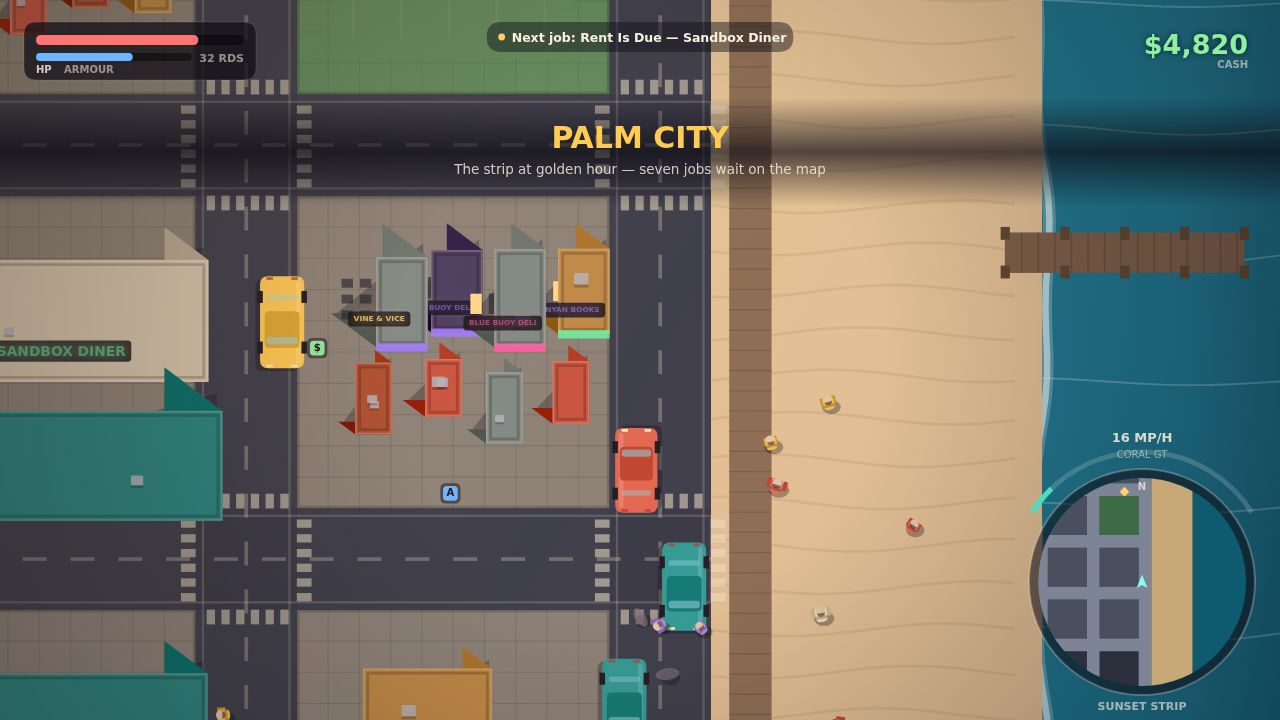
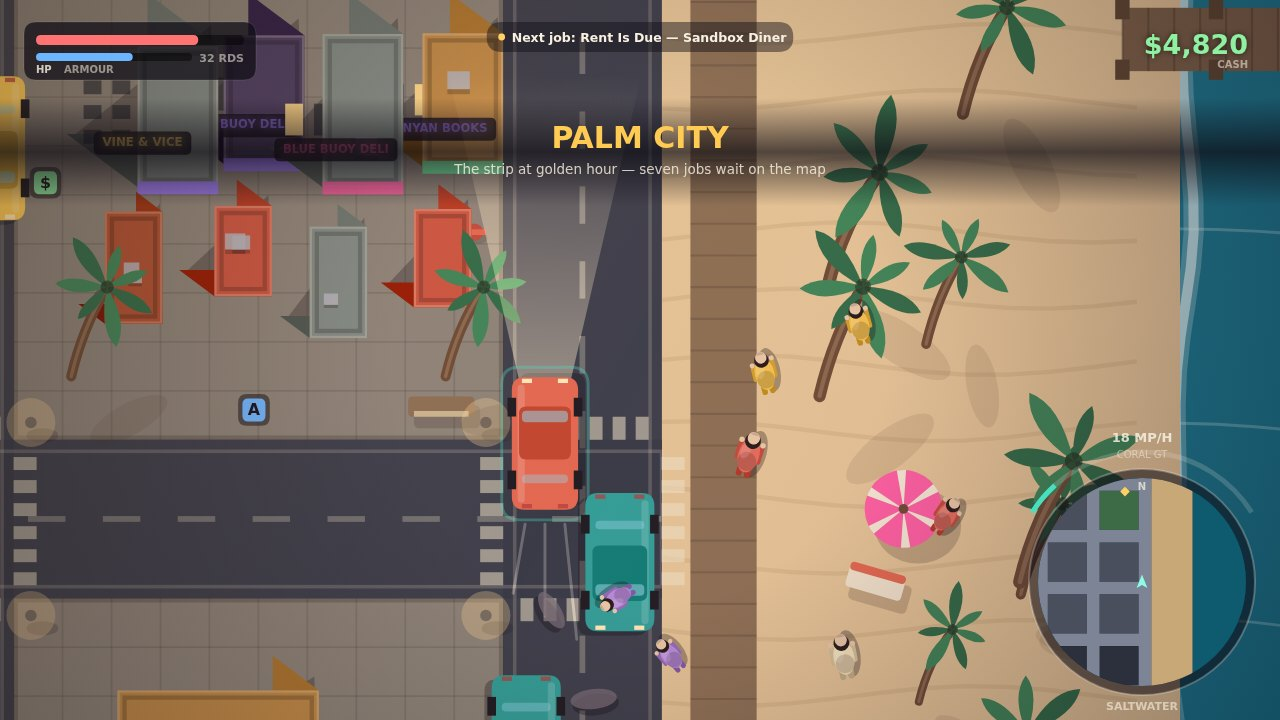
On-foot shot staged at the downtown crossing; drop probe pages; refresh the four screenshots

diff --git a/game/src/shots.js b/game/src/shots.js
@@ -94,54 +94,47 @@
   // 2 — ON FOOT. Mid-pavement in a shop block, pedestrians all round, the job marker ahead.
   SCENES[2] = function (world) {
     clearTraffic(world);
-    // On foot on the sand behind the boardwalk: umbrellas, loungers, palms, a crowd
-    // walking the strip, and the avenue's tail lights just behind him.
-    var wx = CFG.SAND_X + 118;
-    var wy = 1996;
-
-    var grove = [
-      [-46, -212, 1.22], [116, -150, 1.05], [148, 196, 1.30], [-58, 158, 1.10],
-      [276, 30, 1.00], [246, -262, 1.14]
-    ];
-    for (var g = 0; g < grove.length; g++) {
-      world.city.palms.push({ x: wx + grove[g][0], y: wy + grove[g][1], s: grove[g][2], rot: g * 1.1 });
-    }
-    world.city.props.push({ type: 'umbrella', x: wx + 168, y: wy - 116, rot: 0.35, color: CFG.colors.neon[0] });
-    world.city.props.push({ type: 'umbrella', x: wx + 96, y: wy + 176, rot: -0.42, color: CFG.colors.neon[1] });
-    world.city.props.push({ type: 'lounger', x: wx + 132, y: wy - 78, rot: 0.30 });
-    world.city.props.push({ type: 'lounger', x: wx + 62, y: wy + 138, rot: -0.34 });
+    // On foot in the middle of a downtown crossing: he is walking east across the paint, a
+    // queue of cars waits at the light, the crowd crosses with him, towers lean overhead.
+    var ix = CFG.CELL * 4 + CFG.ROAD / 2;   // the crossroads centre line, both ways
+    var wx = ix - 34;
+    var wy = ix + 26;
 
     world.player.inCar = null;
     world.player.x = wx;
     world.player.y = wy;
-    world.player.angle = -2.30;
-    world.player.vx = -56;
-    world.player.vy = -14;
-    world.player.stride = 3.0;
-    world.player.health = 82;
-    world.player.armour = 48;
+    world.player.angle = 0.02;
+    world.player.vx = 62;
+    world.player.vy = 6;
+    world.player.stride = 3.2;
+    world.player.health = 78;
+    world.player.armour = 44;
     world.aiming = false;
 
     var mates = [
-      [wx + 92, wy - 84, 2.6], [wx - 96, wy + 96, 2.1], [wx + 132, wy + 52, 2.5],
-      [wx - 34, wy - 152, 1.9], [wx + 58, wy + 172, 2.4], [wx + 186, wy - 224, 1.7]
+      [wx + 96, wy + 22, 0.1], [wx - 74, wy - 26, 3.1], [wx + 168, wy - 8, 2.9],
+      [wx + 42, wy - 96, 1.6], [ix - 150, ix + 128, -0.4], [ix + 132, ix + 116, 2.6]
     ];
     for (var m = 0; m < mates.length; m++) {
       var ped = world.peds.spawnAt(mates[m][0], mates[m][1]);
       if (ped) ped.angle = mates[m][2];
     }
-    propCar(world, AVENUE - 26, wy - 208, -Math.PI / 2, 0);
-    propCar(world, AVENUE - 26, wy + 148, -Math.PI / 2, 6);
-    propCar(world, AVENUE + 30, wy + 18, Math.PI / 2, 3);
+    // traffic held at the light: two lanes coming north, two going south
+    propCar(world, ix - 26, ix + 200, -Math.PI / 2, 2);
+    propCar(world, ix + 26, ix + 268, Math.PI / 2, 5);
+    propCar(world, ix - 26, ix - 172, -Math.PI / 2, 1);
+    propCar(world, ix + 26, ix - 236, Math.PI / 2, 6);
+    propCar(world, ix + 210, ix - 26, Math.PI, 3);
+    propCar(world, ix - 208, ix + 26, 0, 0);
     world.police.stars = 0;
     world.police.units.length = 0;
-    world.shotCam = { x: wx + 62, y: wy - 44, zoom: 2.86 };
-    world.camera.zoom = 2.86;
-    world.camera.x = wx + 62;
-    world.camera.y = wy - 44;
-    world.hud.banner('ON FOOT', 'The boardwalk — sand on one side, the strip on the other');
+    world.shotCam = { x: wx + 46, y: wy + 16, zoom: 1.92 };
+    world.camera.zoom = 1.92;
+    world.camera.x = wx + 46;
+    world.camera.y = wy + 16;
+    world.hud.banner('ON FOOT', 'Downtown crossing — the strip on a Friday night');
     return true;
-  };  SCENES[3] = function (world) {
+  }; SCENES[3] = function (world) {
     clearTraffic(world);
     // The bust: the player's coupe is stopped in the eastbound lane with a cruiser pulled up
     // nose-to-nose in front and a second one blocking behind. A third is slewing in across
